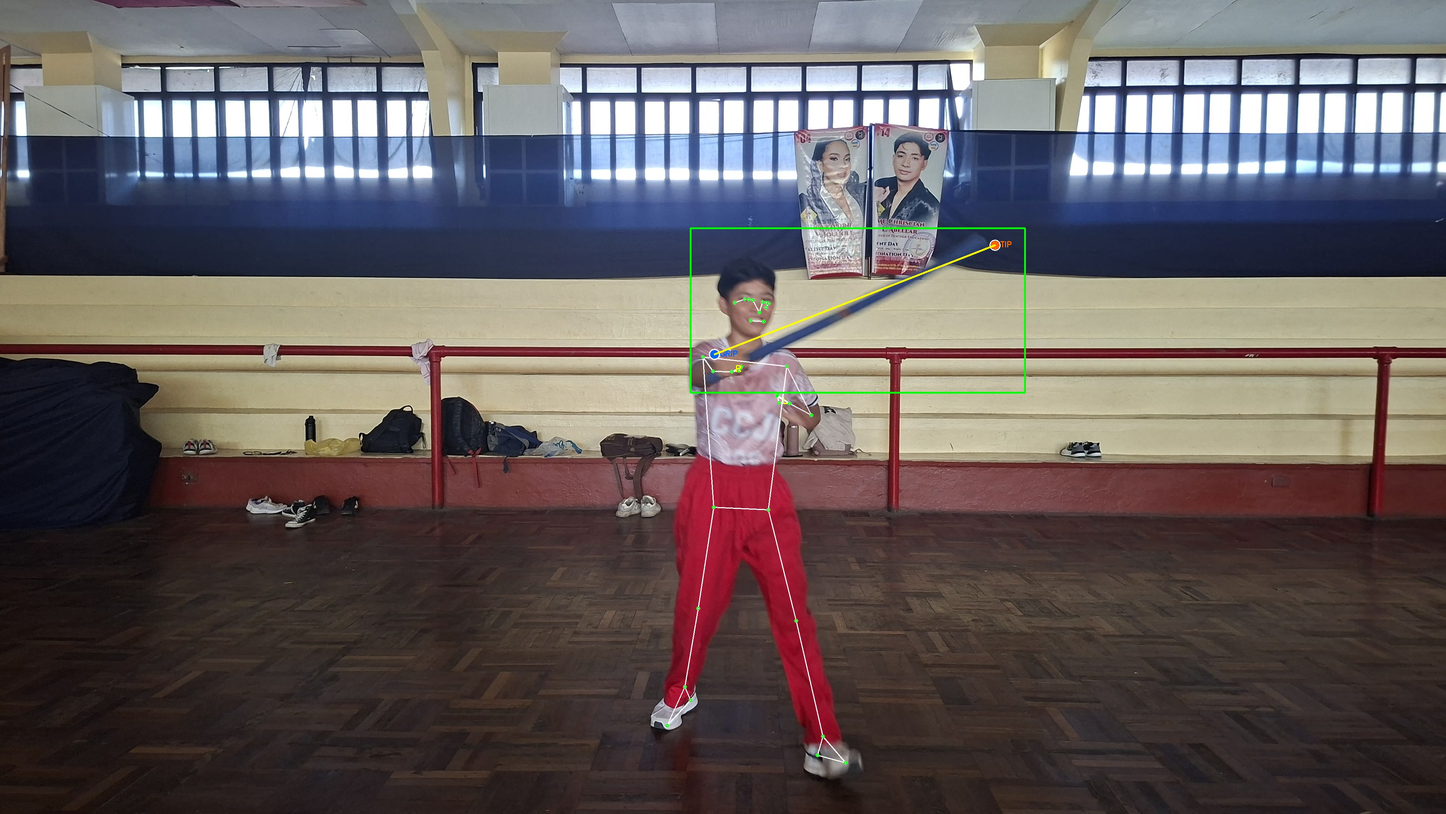
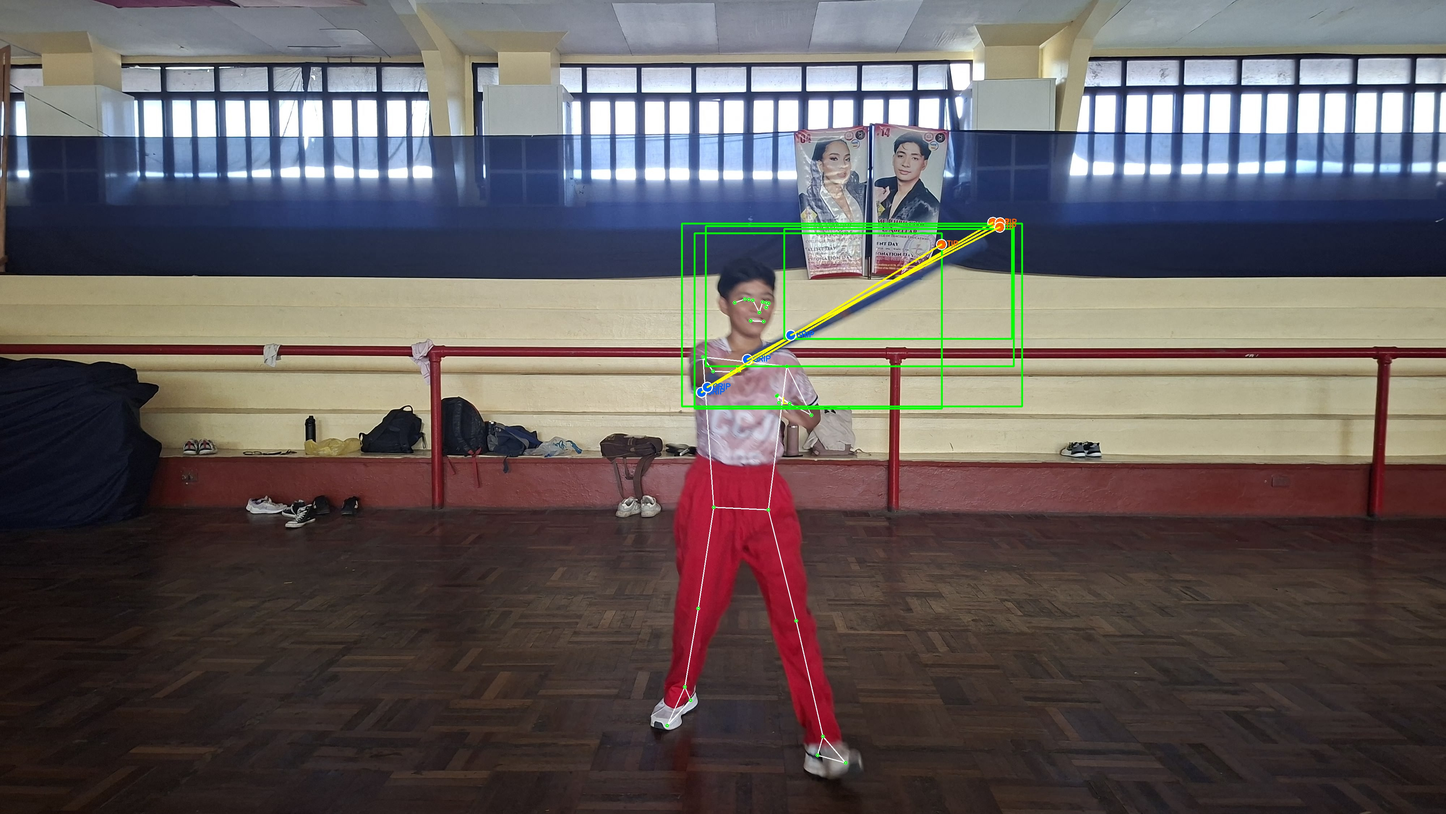
scripts update

Changed region(s): [[0.4688, 0.2487, 0.7188, 0.5284], [0.5938, 0.3419, 0.625, 0.373]]

diff --git a/training/feature_extraction_combined.py b/training/feature_extraction_combined.py
@@ -1,6 +1,10 @@
 """
 Combined feature extraction: MediaPipe body landmarks + YOLO stick detector
 Extracts 58 body features + 14 stick features = 72 features total (+ class label)
+
+Research notes:
+- Confidence threshold 0.75 per Guo et al. (2017) on neural network calibration
+- Falls back to zeros if stick not detected (ensures consistent feature vector length)
 """
 import cv2
 import numpy as np
@@ -10,6 +14,10 @@ import pandas as pd
 from tqdm import tqdm
 from multiprocessing import Pool, cpu_count
 from ultralytics import YOLO
+import warnings
+# confidence thresholds
+STICK_CONFIDENCE_THRESHOLD = 0.75  # Box confidence (Guo et al., 2017)
+KEYPOINT_CONFIDENCE_THRESHOLD = 0.5  # Keypoint confidence
 
 # paths
 current_dir = os.path.dirname(os.path.abspath(__file__))
@@ -137,7 +145,14 @@ def extract_body_features(lm):
     return features
 
 def extract_stick_features(image, lm_px, img_w, img_h, body_height):
-    """extract 14 stick features from YOLO detection"""
+    """Extract 14 stick features from YOLO detection.
+    
+    Uses research-backed confidence thresholds:
+    - Box confidence >= 0.75 (Guo et al., 2017)
+    - Keypoint confidence >= 0.5
+    
+    Returns zeros if no valid stick detected (maintains consistent feature vector).
+    """
     global worker_stick_model
     
     # default zeros if no stick detected
@@ -147,7 +162,9 @@ def extract_stick_features(image, lm_px, img_w, img_h, body_height):
         return zero_features
     
     try:
-        results = worker_stick_model(image, verbose=False)
+        with warnings.catch_warnings():
+            warnings.simplefilter("ignore")
+            results = worker_stick_model(image, verbose=False)
         
         for result in results:
             if result.keypoints is None or len(result.boxes) == 0:
@@ -159,7 +176,7 @@ def extract_stick_features(image, lm_px, img_w, img_h, body_height):
             kpts = result.keypoints[best_idx]
             
             stick_conf = box.conf.item()
-            if stick_conf < 0.3:  # skip low confidence
+            if stick_conf < STICK_CONFIDENCE_THRESHOLD:  # Research-backed threshold
                 continue
             
             kpts_data = kpts.data[0].cpu().numpy()
@@ -169,7 +186,7 @@ def extract_stick_features(image, lm_px, img_w, img_h, body_height):
             grip_x, grip_y, grip_conf = kpts_data[0]
             tip_x, tip_y, tip_conf = kpts_data[1]
             
-            if grip_conf < 0.3 or tip_conf < 0.3:
+            if grip_conf < KEYPOINT_CONFIDENCE_THRESHOLD or tip_conf < KEYPOINT_CONFIDENCE_THRESHOLD:
                 continue
             
             # calculate stick features
@@ -222,7 +239,10 @@ def extract_stick_features(image, lm_px, img_w, img_h, body_height):
         
         return zero_features
         
-    except Exception:
+    except Exception as e:
+        # Log error for debugging but don't crash extraction
+        if os.environ.get('DEBUG_EXTRACTION'):
+            print(f"[DEBUG] Stick extraction error: {e}")
         return zero_features
 
 def extract_combined_features(image_path, verbose=False):
@@ -331,10 +351,11 @@ def extract_features_from_dataset(dataset_path, csv_output_path):
     
     print(f"  Processing {len(image_tasks)} images...")
     
-    # extract features using multiprocessing
-    # note: yolo doesn't play well with multiprocessing, use fewer workers
-    n_workers = max(1, min(4, cpu_count() - 1))
-    print(f"  Using {n_workers} workers...")
+    # Extract features using multiprocessing
+    # Note: YOLO has issues with multiprocessing, use fewer workers to avoid memory leaks
+    # Consider setting n_workers=1 if you experience crashes
+    n_workers = max(1, min(2, cpu_count() - 1))  # Reduced from 4 to 2 for YOLO stability
+    print(f"  Using {n_workers} workers (reduced for YOLO stability)...")
     
     with Pool(n_workers, initializer=init_worker) as pool:
         results = list(tqdm(pool.imap(_extract_wrapper, image_tasks), total=len(image_tasks)))

diff --git a/tools/test_combined_extraction.py b/tools/test_combined_extraction.py
@@ -1,14 +1,23 @@
-"""
-Test script to visualize MediaPipe body landmarks + YOLO stick detector
-Run this to see if combined feature extraction works before full implementation
-"""
 import cv2
 import numpy as np
-import mediapipe as mp
 from ultralytics import YOLO
 import os
 import sys
 import argparse
+
+# MediaPipe import with version compatibility
+try:
+    # Try legacy API first (works with most versions)
+    import mediapipe as mp
+    mp_pose = mp.solutions.pose
+    mp_draw = mp.solutions.drawing_utils
+    mp_draw_styles = mp.solutions.drawing_styles
+    MEDIAPIPE_LEGACY = True
+except AttributeError:
+    # Fallback for newer MediaPipe versions
+    from mediapipe.tasks import python
+    from mediapipe.tasks.python import vision
+    MEDIAPIPE_LEGACY = False
 
 # paths
 current_dir = os.path.dirname(os.path.abspath(__file__))
@@ -70,10 +79,7 @@ def test_combined_extraction(image_path, verbose=True):
     print("  MEDIAPIPE BODY LANDMARKS")
     print("="*60)
     
-    mp_pose = mp.solutions.pose
-    mp_draw = mp.solutions.drawing_utils
-    mp_draw_styles = mp.solutions.drawing_styles
-    
+    # Use global mp_pose, mp_draw, mp_draw_styles from imports
     debug_print("Initializing MediaPipe Pose (complexity=2)...")
     pose = mp_pose.Pose(static_image_mode=True, model_complexity=2, min_detection_confidence=0.5)
     

diff --git a/training/model_manager.py b/training/model_manager.py
@@ -233,7 +233,7 @@ def generate_analysis():
                     return
                 
                 sys.path.insert(0, os.path.join(project_root, 'tools'))
-                from get_classification_report import generate_classification_report
+                from get_classification_report import generate_classification_report  # type: ignore
                 generate_classification_report()
                 
             elif model_type in ['random_forest', 'xgboost']:
